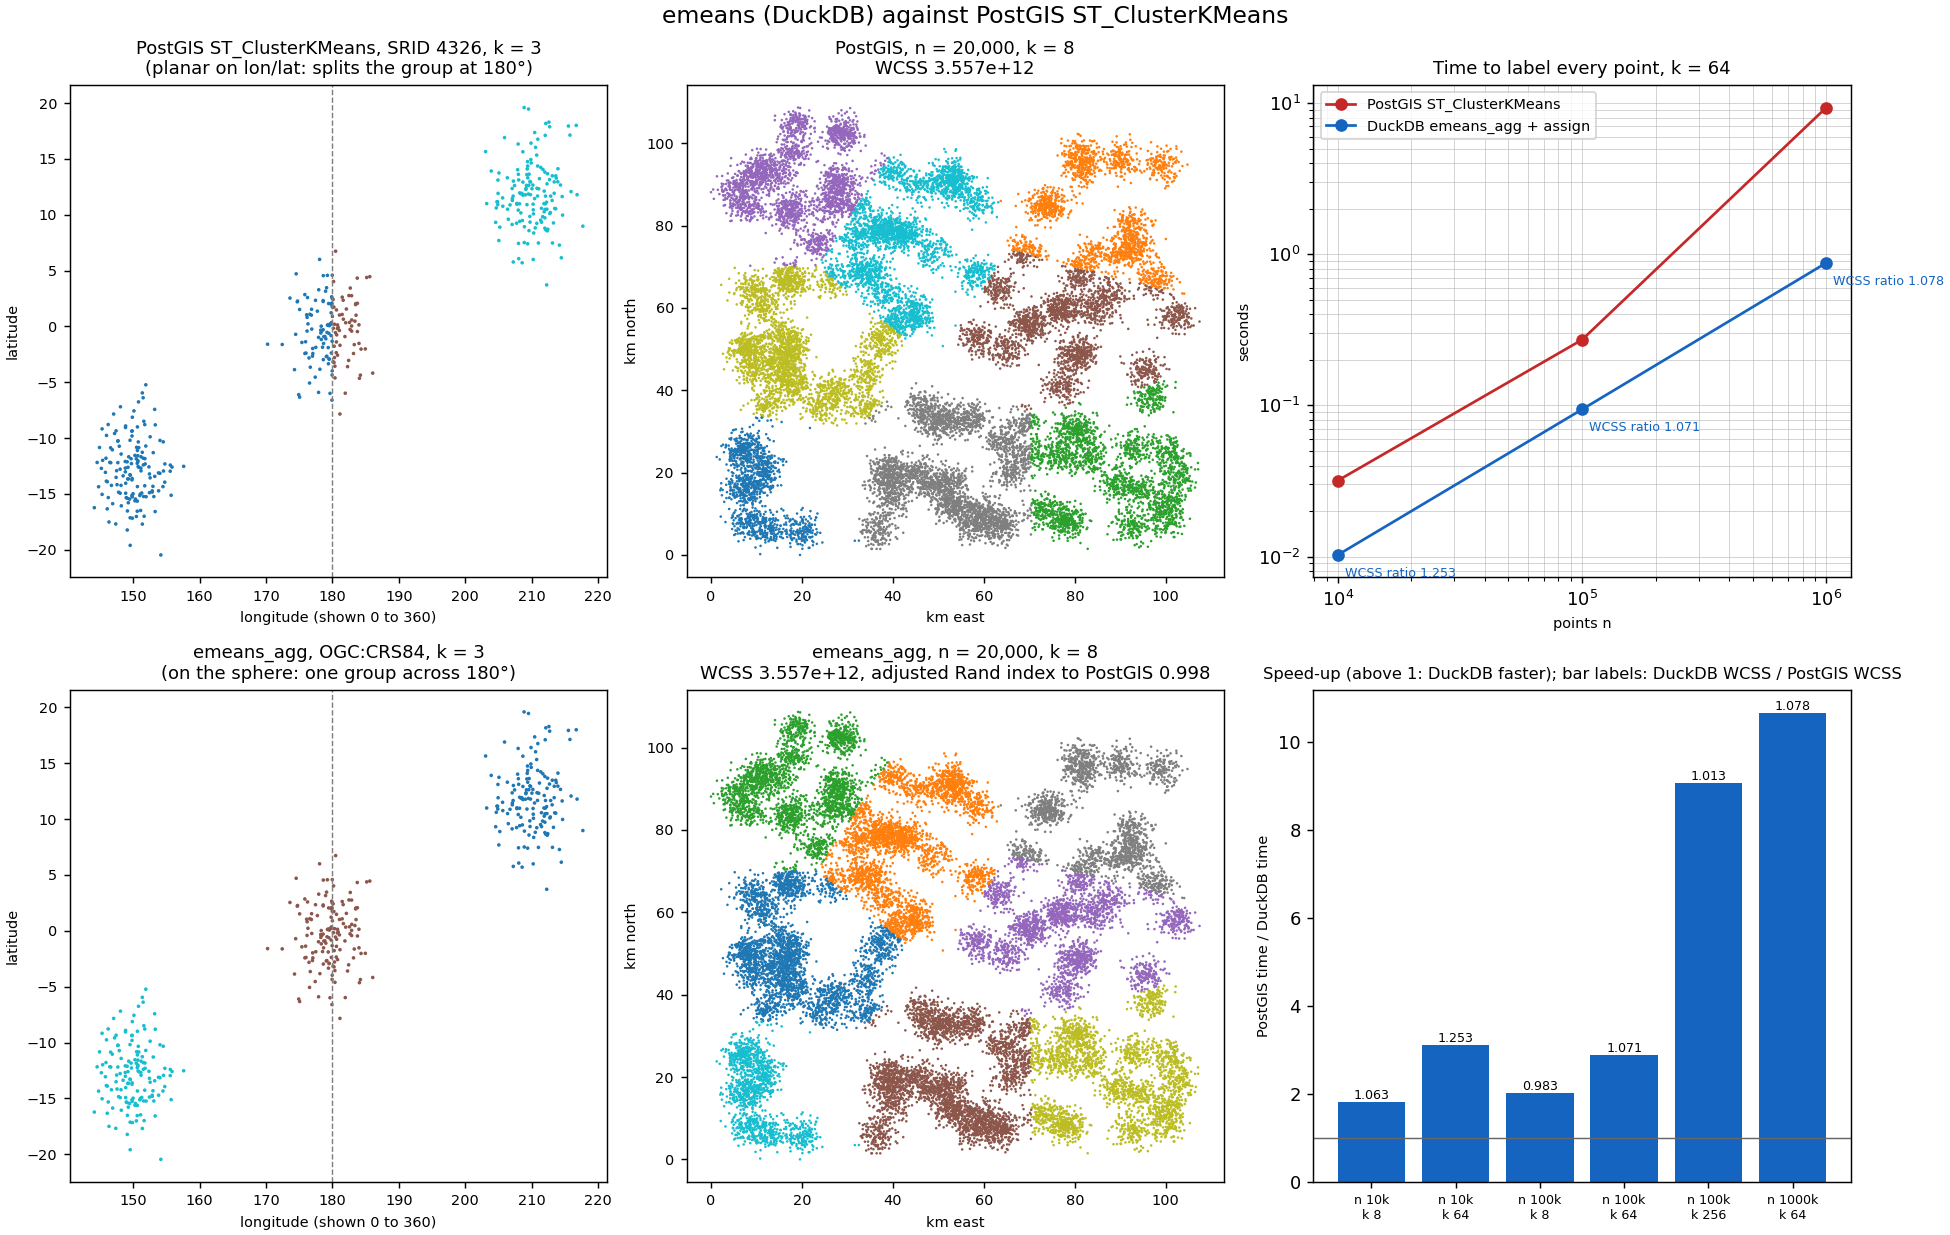
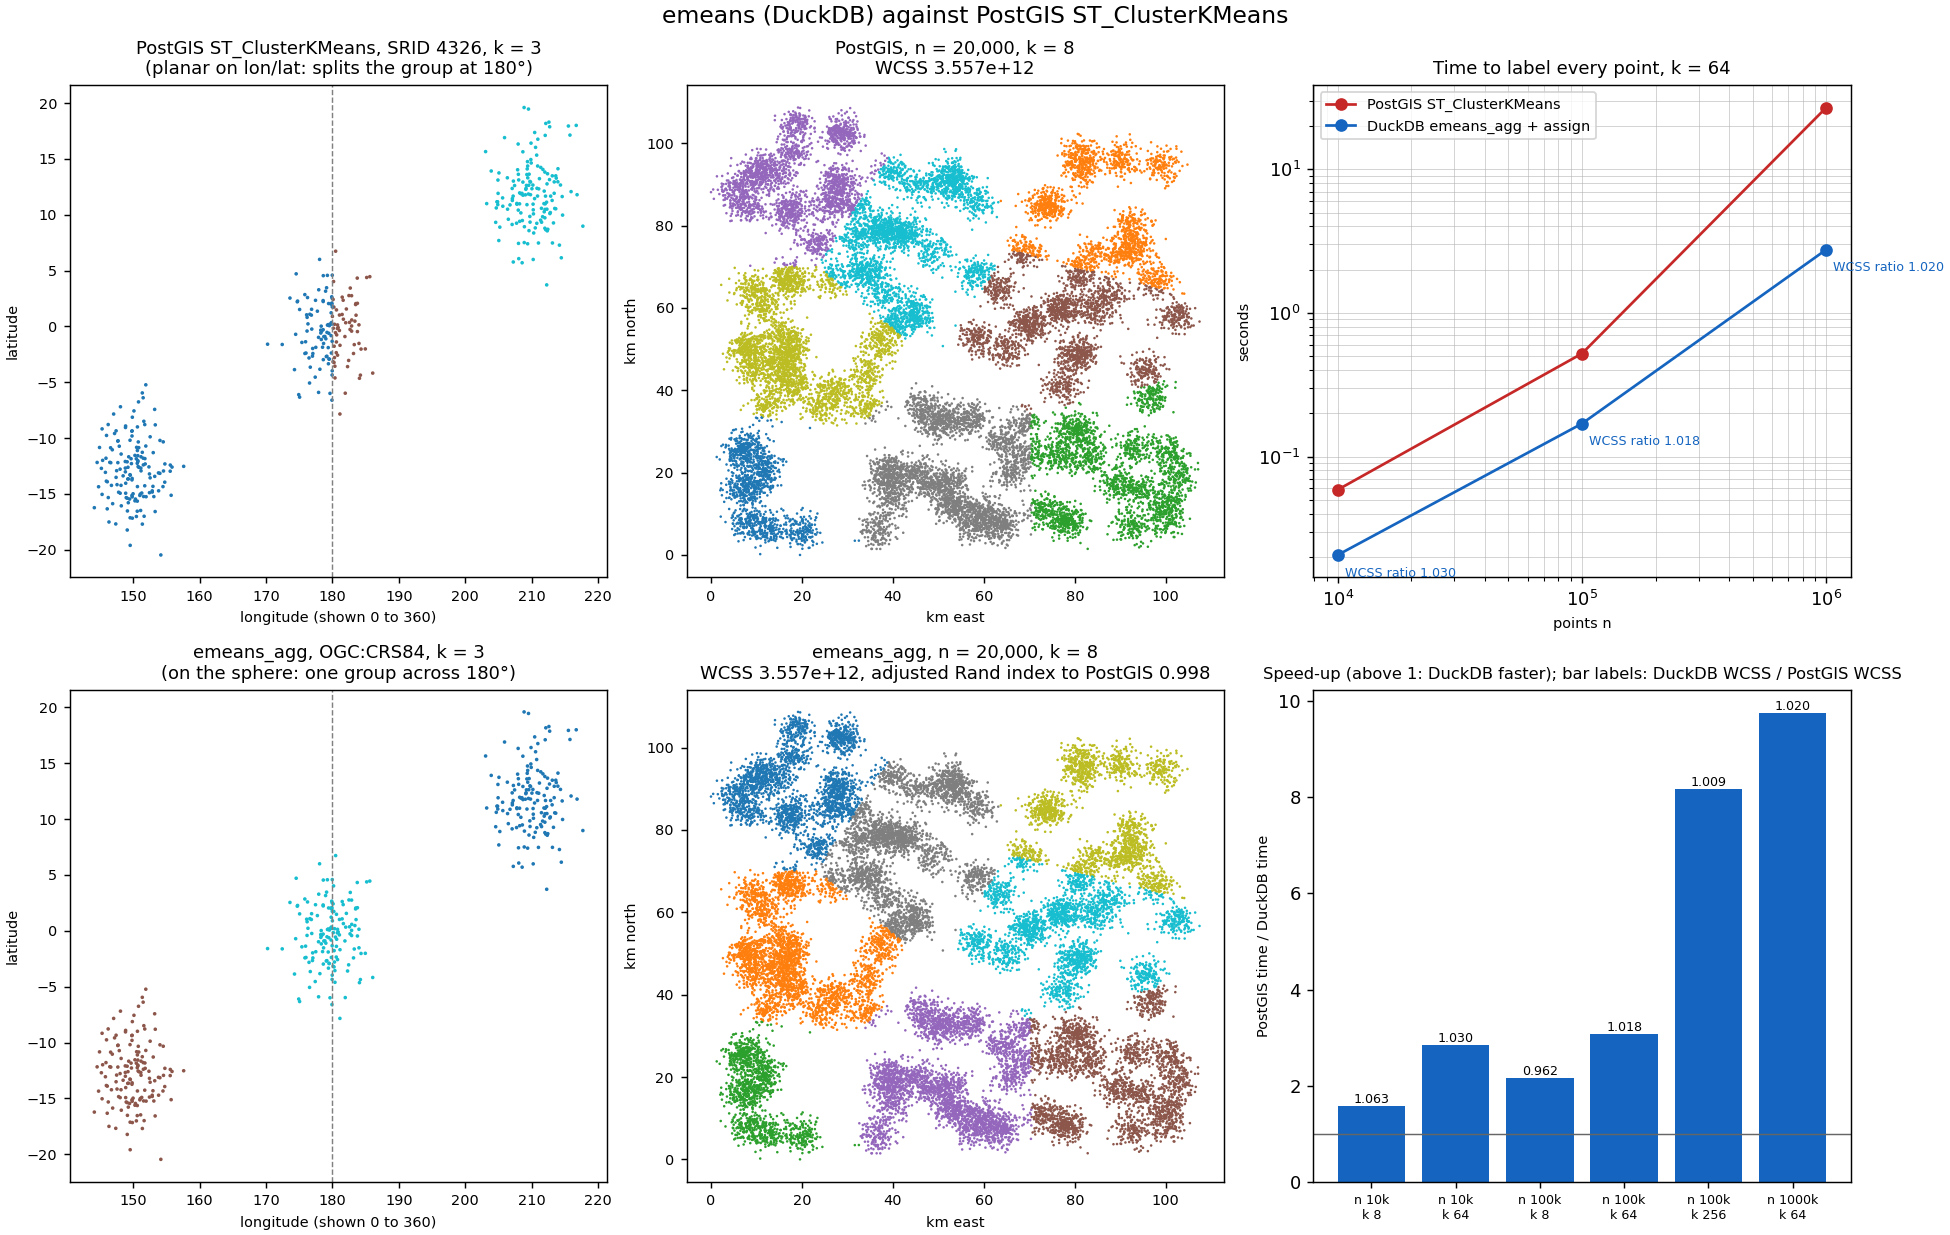
emeans_agg: k-means++ seeding
The core gains kmeans_plus_plus (Arthur and Vassilvitskii 2007: a uniform
first centroid, then each next drawn with probability proportional to the
squared distance from the nearest chosen one), counted in the work limit
as one more pass. emeans_agg uses it; emeans() keeps the reference's
random start.

Against PostGIS's ST_ClusterKMeans on the same maps the worst case goes
from 25% to 3% more within-cluster variance (n = 10,000, k = 64), and at
a million points from 7.8% to 2%; more epochs had not helped, since the
reference turns revival off in 2-D. Costs about 20% more time. Core tests:
the far point is always separated over 20 seeds, identical points fall
back to a uniform draw, the work limit counts the seeding pass.
docs/POSTGIS.md and the figure are regenerated.

diff --git a/src/core/emeans.c b/src/core/emeans.c
@@ -33,6 +33,7 @@ typedef struct {
 	int64_t *count;       // n_j of the current batch, k
 	int64_t *pass_count;  // counts of the closing pass, k
 	int64_t *perm;        // n
+	double *min_dist;     // k-means++: each row's squared distance to the nearest chosen centroid, n
 	donor_key *keys;      // k
 	int32_t *batch_label; // B
 	int32_t *touched;     // clusters with n_j > 0 in the current batch, k
@@ -67,6 +68,7 @@ void emeans_default_params(emeans_params *p) {
 	p->alpha0 = 0;
 	p->unused_threshold = -1;
 	p->init = NULL;
+	p->kmeans_plus_plus = 0;
 	p->max_work = 0;
 	p->spherical = 0;
 	p->threads = 1;
@@ -122,7 +124,8 @@ static double total_rows(int64_t n, double nepochs) {
 }
 
 static int check_budget(const run_state *s, const emeans_params *p, char *err) {
-	double work = total_rows(s->n, p->nepochs) * (double)s->k * (double)s->d;
+	double rows = total_rows(s->n, p->nepochs) + (p->kmeans_plus_plus && !p->init ? (double)s->n : 0.0);
+	double work = rows * (double)s->k * (double)s->d;
 	if (p->max_work > 0 && work > p->max_work) {
 		snprintf(err, EMEANS_ERR_LEN, "work limit exceeded: rows x k x d over all passes is %.4g, the limit %.4g",
 		         work, p->max_work);
@@ -146,7 +149,7 @@ static int prepare(run_state *s, const emeans_params *p, char *err) {
 static double workspace_bytes(const run_state *s, int64_t b) {
 	double n = (double)s->n, k = (double)s->k, kd = k * (double)s->d;
 	double scratch = (double)s->threads * (double)s->scratch_floats;
-	return 8.0 * (2.0 * kd + k + (double)b) + 8.0 * (2.0 * k + n) + (double)sizeof(donor_key) * k +
+	return 8.0 * (2.0 * kd + k + (double)b) + 8.0 * (2.0 * k + 2.0 * n) + (double)sizeof(donor_key) * k +
 	       4.0 * ((double)b + 2.0 * k) + 4.0 * (2.0 * kd + scratch) + 4.0 * (kd + k);
 }
 
@@ -172,6 +175,7 @@ static int workspace_alloc(run_state *s, int64_t b) {
 	ws->count = carve(&cursor, k, sizeof(int64_t));
 	ws->pass_count = carve(&cursor, k, sizeof(int64_t));
 	ws->perm = carve(&cursor, n, sizeof(int64_t));
+	ws->min_dist = carve(&cursor, n, sizeof(double));
 	ws->keys = carve(&cursor, k, sizeof(donor_key));
 	ws->batch_label = carve(&cursor, b, sizeof(int32_t));
 	ws->touched = carve(&cursor, k, sizeof(int32_t));
@@ -434,17 +438,70 @@ static void run_pass(run_state *s, int64_t pass, int64_t rows, int closing) {
 	s->out->obj[pass] = obj;
 }
 
-static void init_centroids(run_state *s, const float *init) {
-	float *c = s->out->centroids;
-	if (init) {
-		memcpy(c, init, (size_t)(s->k * s->d) * sizeof(float));
+//===--------------------------------------------------------------------===//
+// Initial centroids
+//===--------------------------------------------------------------------===//
+
+static void copy_row(run_state *s, int64_t j, int64_t row) {
+	memcpy(s->out->centroids + j * s->d, s->x + row * s->d, (size_t)s->d * sizeof(float));
+}
+
+// Lowers each row's distance to the nearest chosen centroid with centroid j; returns the new total.
+static double update_min_dist(run_state *s, int64_t j) {
+	const float *c = s->out->centroids + j * s->d;
+	double total = 0;
+	for (int64_t i = 0; i < s->n; i++) {
+		double d = emeans_sq_dist(s->x + i * s->d, c, s->d);
+		s->ws.min_dist[i] = j == 0 || d < s->ws.min_dist[i] ? d : s->ws.min_dist[i];
+		total += s->ws.min_dist[i];
+	}
+	return total;
+}
+
+// The row a draw lands on when rows are weighted by min_dist; the last row with weight if rounding runs
+// past the end. A total of 0 (every row on a centroid already) gives a uniform draw.
+static int64_t weighted_row(run_state *s, emeans_rng *rng, double total) {
+	if (!(total > 0)) {
+		return (int64_t)emeans_rng_below(rng, (uint64_t)s->n);
+	}
+	double target = emeans_rng_open01(rng) * total;
+	int64_t last = 0;
+	for (int64_t i = 0; i < s->n; i++) {
+		last = s->ws.min_dist[i] > 0 ? i : last;
+		target -= s->ws.min_dist[i];
+		if (target <= 0 && s->ws.min_dist[i] > 0) {
+			return i;
+		}
+	}
+	return last;
+}
+
+// k-means++ (Arthur and Vassilvitskii 2007): a uniform first centroid, then each next one drawn with
+// probability proportional to its squared distance from the nearest centroid chosen so far. One pass
+// over the rows per centroid, like a pass of the loop.
+static void init_plus_plus(run_state *s, emeans_rng *rng) {
+	copy_row(s, 0, (int64_t)emeans_rng_below(rng, (uint64_t)s->n));
+	double total = update_min_dist(s, 0);
+	for (int64_t j = 1; j < s->k; j++) {
+		copy_row(s, j, weighted_row(s, rng, total));
+		total = update_min_dist(s, j);
+	}
+}
+
+static void init_centroids(run_state *s, const emeans_params *p) {
+	if (p->init) {
+		memcpy(s->out->centroids, p->init, (size_t)(s->k * s->d) * sizeof(float));
 		return;
 	}
 	emeans_rng rng;
 	emeans_rng_seed(&rng, s->seed, INIT_STREAM);
+	if (p->kmeans_plus_plus) {
+		init_plus_plus(s, &rng);
+		return;
+	}
 	emeans_shuffle_prefix(&rng, s->ws.perm, s->n, s->k);
 	for (int64_t j = 0; j < s->k; j++) {
-		memcpy(c + j * s->d, s->x + s->ws.perm[j] * s->d, (size_t)s->d * sizeof(float));
+		copy_row(s, j, s->ws.perm[j]);
 	}
 }
 
@@ -480,7 +537,7 @@ static void close_centroids(run_state *s) {
 }
 
 static void run(run_state *s, const emeans_params *p) {
-	init_centroids(s, p->init);
+	init_centroids(s, p);
 	init_state(s);
 	emit_frame(s, 0);
 	int64_t passes = s->recipe.n_passes;

diff --git a/test/c/test_core.c b/test/c/test_core.c
@@ -737,6 +737,53 @@ static void test_sort_rows(void) {
 	CHECK(three[0] == 1 && three[1] == 2 && three[2] == 3, "three rows");
 }
 
+//===--------------------------------------------------------------------===//
+// k-means++ seeding
+//===--------------------------------------------------------------------===//
+
+static void test_kmeans_plus_plus(void) {
+	// Nine points near 0 and one at 100 (x axis), k = 2, one pass of one batch with alpha0 = 1 so the
+	// result is one Lloyd step from the seeds. Whichever point seeds first, the second seed is drawn with
+	// weight proportional to squared distance: from a seed near 0 the point at 100 carries
+	// 100^2 / (100^2 + sum of the others' squares <= 9 * 0.8^2) > 99.9% of the weight. So for every seed the
+	// clusters are {near 0} and {100}: centroids 0.4 and 100.
+	float x[20];
+	for (int i = 0; i < 9; i++) {
+		x[2 * i] = 0.1f * (float)i;
+		x[2 * i + 1] = 0;
+	}
+	x[18] = 100;
+	x[19] = 0;
+	emeans_params p;
+	emeans_default_params(&p);
+	p.kmeans_plus_plus = 1;
+	p.nepochs = 1;
+	p.batch_size = 10;
+	p.alpha0 = 1;
+	int separated = 0;
+	for (uint32_t seed = 0; seed < 20; seed++) {
+		fit_result r;
+		p.seed = seed;
+		CHECK(fit(x, 10, 2, 2, &p, &r) == EMEANS_OK, "%s", r.err);
+		float lo = fminf(r.centroids[0], r.centroids[2]), hi = fmaxf(r.centroids[0], r.centroids[2]);
+		separated += fabsf(lo - 0.4f) < 1e-5f && hi == 100.0f;
+	}
+	CHECK(separated == 20, "k-means++ separated the far point for %d of 20 seeds", separated);
+	// Identical points: every distance is 0 after the first seed, and the draw falls back to uniform.
+	float same[8] = {5, 5, 5, 5, 5, 5, 5, 5};
+	fit_result r;
+	p.seed = 1;
+	p.batch_size = 0;
+	p.alpha0 = 0;
+	CHECK(fit(same, 4, 2, 3, &p, &r) == EMEANS_OK && r.centroids[0] == 5 && r.centroids[4] == 5, "identical points");
+	// k-means++ counts one more pass in the work limit: 10 rows x k 2 x d 2 = 40 for seeding, 40 for the pass.
+	p.seed = 0;
+	p.max_work = 79;
+	CHECK(fit(x, 10, 2, 2, &p, &r) == EMEANS_BUDGET_EXCEEDED, "budget counts the seeding pass");
+	p.max_work = 80;
+	CHECK(fit(x, 10, 2, 2, &p, &r) == EMEANS_OK, "%s", r.err);
+}
+
 int main(void) {
 	test_round_pow2();
 	test_passes();
@@ -762,6 +809,7 @@ int main(void) {
 	test_wkb_points();
 	test_sphere();
 	test_sort_rows();
+	test_kmeans_plus_plus();
 	test_normalize();
 	test_fit_spherical();
 	if (failures) {

diff --git a/src/include/emeans.h b/src/include/emeans.h
@@ -35,7 +35,8 @@ typedef struct {
 	int64_t batch_size;      // > 0 overrides the batch law
 	double alpha0;           // > 0 overrides the step law
 	double unused_threshold; // tau for revival; < 0 (default) means 0.1 above d = 2 and 0 (off) otherwise
-	const float *init;       // k x d initial centroids, or NULL (default) for k distinct random rows
+	const float *init;       // k x d initial centroids, or NULL (default) to choose them from the rows
+	int kmeans_plus_plus;    // choose them by k-means++ seeding rather than at random (default 0)
 	double max_work;         // limit on rows x k x d summed over all passes; 0 (default) = none
 	int spherical;           // assign by the largest inner product with the centroid directions (default 0)
 	int threads;             // threads for the assignment of a large batch (default 1); the result does not

diff --git a/src/functions/emeans_agg.c b/src/functions/emeans_agg.c
@@ -358,6 +358,9 @@ static int fit_state(const agg_state *s, int geometry, duckdb_vector result, idx
 	p.seed = s->seed;
 	p.spherical = s->geographic;
 	p.max_work = MAX_WORK;
+	// Unlike emeans() and the reference, k-means++ seeding: on 2-D maps, where the reference turns revival
+	// off, a random start left clusters up to 25% worse than PostGIS (docs/POSTGIS.md).
+	p.kmeans_plus_plus = 1;
 	emeans_recipe recipe;
 	if (emeans_resolve_recipe(s->n, s->k, l.dim, p.nepochs, p.law, 0, 0, &recipe, err)) {
 		return 1;

diff --git a/docs/POSTGIS.md b/docs/POSTGIS.md
@@ -35,29 +35,30 @@ does not have.
 ## Speed and quality
 
 Gaussian blobs (128 centres in a 100 km square, 2 km spread) in projected metres (SWEREF99 TM range),
-one partition, e-means with its defaults (5 epochs, seed 1234). WCSS is the within-cluster sum of
-squares of each labelling, lower is better; the adjusted Rand index (ARI) is 1 when the two partitions
-are the same.
+one partition, with `emeans_agg`'s defaults (k-means++ start, 5 epochs, seed 1234). WCSS is the
+within-cluster sum of squares of each labelling, lower is better; the adjusted Rand index (ARI) is 1
+when the two partitions are the same.
 
-| n | k | PostGIS | DuckDB | speed-up | WCSS DuckDB / PostGIS | ARI |
-|---:|---:|---:|---:|---:|---:|---:|
-| 10,000 | 8 | 0.01 s | 0.01 s | 1.8× | 1.063 | 0.592 |
-| 10,000 | 64 | 0.03 s | 0.01 s | 3.1× | 1.253 | 0.705 |
-| 100,000 | 8 | 0.09 s | 0.05 s | 2.0× | 0.983 | 0.734 |
-| 100,000 | 64 | 0.27 s | 0.09 s | 2.9× | 1.071 | 0.745 |
-| 100,000 | 256 | 2.05 s | 0.23 s | 9.1× | 1.013 | 0.575 |
-| 1,000,000 | 64 | 9.34 s | 0.88 s | 10.6× | 1.078 | 0.691 |
+| n | k | PostGIS | DuckDB | speed-up | WCSS DuckDB / PostGIS | before k-means++ | ARI |
+|---:|---:|---:|---:|---:|---:|---:|---:|
+| 10,000 | 8 | 0.02 s | 0.01 s | 2.3× | 1.063 | 1.063 | 0.592 |
+| 10,000 | 64 | 0.06 s | 0.02 s | 3.6× | 1.030 | 1.253 | 0.765 |
+| 100,000 | 8 | 0.16 s | 0.07 s | 2.3× | 0.962 | 0.983 | 0.678 |
+| 100,000 | 64 | 0.52 s | 0.17 s | 3.1× | 1.018 | 1.071 | 0.831 |
+| 100,000 | 256 | 5.49 s | 0.67 s | 8.2× | 1.009 | 1.013 | 0.591 |
+| 1,000,000 | 64 | 26.9 s | 2.76 s | 9.8× | 1.020 | 1.078 | 0.746 |
 
-DuckDB is 2× to 10× faster, more so as n and k grow. The quality is not uniformly as good: at k = 64
-and 256 emeans's labelling has 1% to 25% more within-cluster variance than PostGIS's, and only at
-n = 100,000, k = 8 is it better. The partitions differ (ARI 0.58 to 0.75) because on blobs that do not
-match k there are many local optima and the two start differently. In the figure's 20,000-point case
-(k = 8) the two partitions are essentially the same (ARI 0.998, equal WCSS).
+The machine was busy with other work during this run: both sides took about three times as long as in
+an earlier, quieter run (PostGIS 9.3 s and DuckDB 0.9 s at a million points), but the speed-up was the
+same, about 10× at a million points.
 
-Two reasons for the gap, both from the reference algorithm, not this port: e-means starts from k random
-points, where k-means++ (as in most k-means implementations) spreads the start; and for d ≤ 2 the
-reference turns dead-cluster revival off, which is what lets e-means escape poor starts in higher
-dimensions. On the 16- to 1536-dimensional data of docs/BENCHMARK.md e-means matches or beats Lloyd.
-More epochs do not close the gap: at n = 100,000, k = 64, nepochs 5, 10, 20 and 50 end 7%, 10%, 12% and
-9% above PostGIS, which points at the start rather than the number of passes. A k-means++ start for
-`emeans_agg` would be the change to try.
+DuckDB is 2× to 10× faster, more so as n and k grow, and its clusters are within 3% of PostGIS's in
+within-cluster variance at every size here: 1% to 3% above, 4% below at n = 100,000, k = 8, equal at
+n = 10,000, k = 8. The partitions differ (ARI 0.59 to 0.83) because on blobs that do not match k there
+are many equally good local optima. In the figure's 20,000-point case the two are essentially the same.
+
+`emeans_agg` starts from k-means++ seeds, unlike `emeans()` and the reference e-means, which start from
+k random rows. With random rows the clusters on these maps were up to 25% worse than PostGIS's (the
+"before" column), and more epochs did not help (5, 10, 20 and 50 epochs ended 7% to 12% above PostGIS at
+n = 100,000, k = 64): the reference turns dead-cluster revival off for 2-D data, which leaves nothing
+to repair a poor start. k-means++ costs one extra pass over the points.

diff --git a/README.md b/README.md
@@ -69,9 +69,10 @@ Labels start at 1, so `centroids[cluster]` is the row's centroid. Other differen
 is no `max_radius`, and the result of a group does not depend on the order of its rows (the points are
 sorted before clustering).
 
-Against PostGIS 3.7 the DuckDB side is 2× to 10× faster, and handles the antimeridian, NULLs and row
-order differently; at larger k its clusters have 1% to 25% more variance. See
-[docs/POSTGIS.md](docs/POSTGIS.md) for the full comparison and the figure.
+Against PostGIS 3.7 the DuckDB side is 2× to 10× faster, its clusters are within 3% of PostGIS's in
+within-cluster variance, and it handles the antimeridian, NULLs and row order differently. `emeans_agg`
+starts from k-means++ seeds, unlike `emeans()`. See [docs/POSTGIS.md](docs/POSTGIS.md) for the full
+comparison and the figure.
 
 ### Why the cluster id takes a second call
 

diff --git a/CHANGELOG.md b/CHANGELOG.md
@@ -7,6 +7,9 @@
   `ST_ClusterKMeans`. Geographic CRSs are clustered on the sphere (antimeridian and poles included) with
   distances in metres; planar ones keep full precision in projected coordinates; results do not depend
   on row order or thread count.
+- `emeans_agg` starts from k-means++ seeds (`kmeans_plus_plus` in the core): on 2-D maps a random start
+  left clusters up to 25% worse than PostGIS's `ST_ClusterKMeans`; with k-means++ they are within 3%.
+  `emeans()` keeps the reference's random start.
 - `emeans_trace()`: a run of e-means or Lloyd recorded as frames of centroids with train and held-out test
   MSE. The core gains `constant_step` (with full batches and alpha0 = 1, Lloyd) and a frame callback.
 - The playground (`web/playground/`, Scala.js + Laminar): Lloyd and e-means side by side with Voronoi
